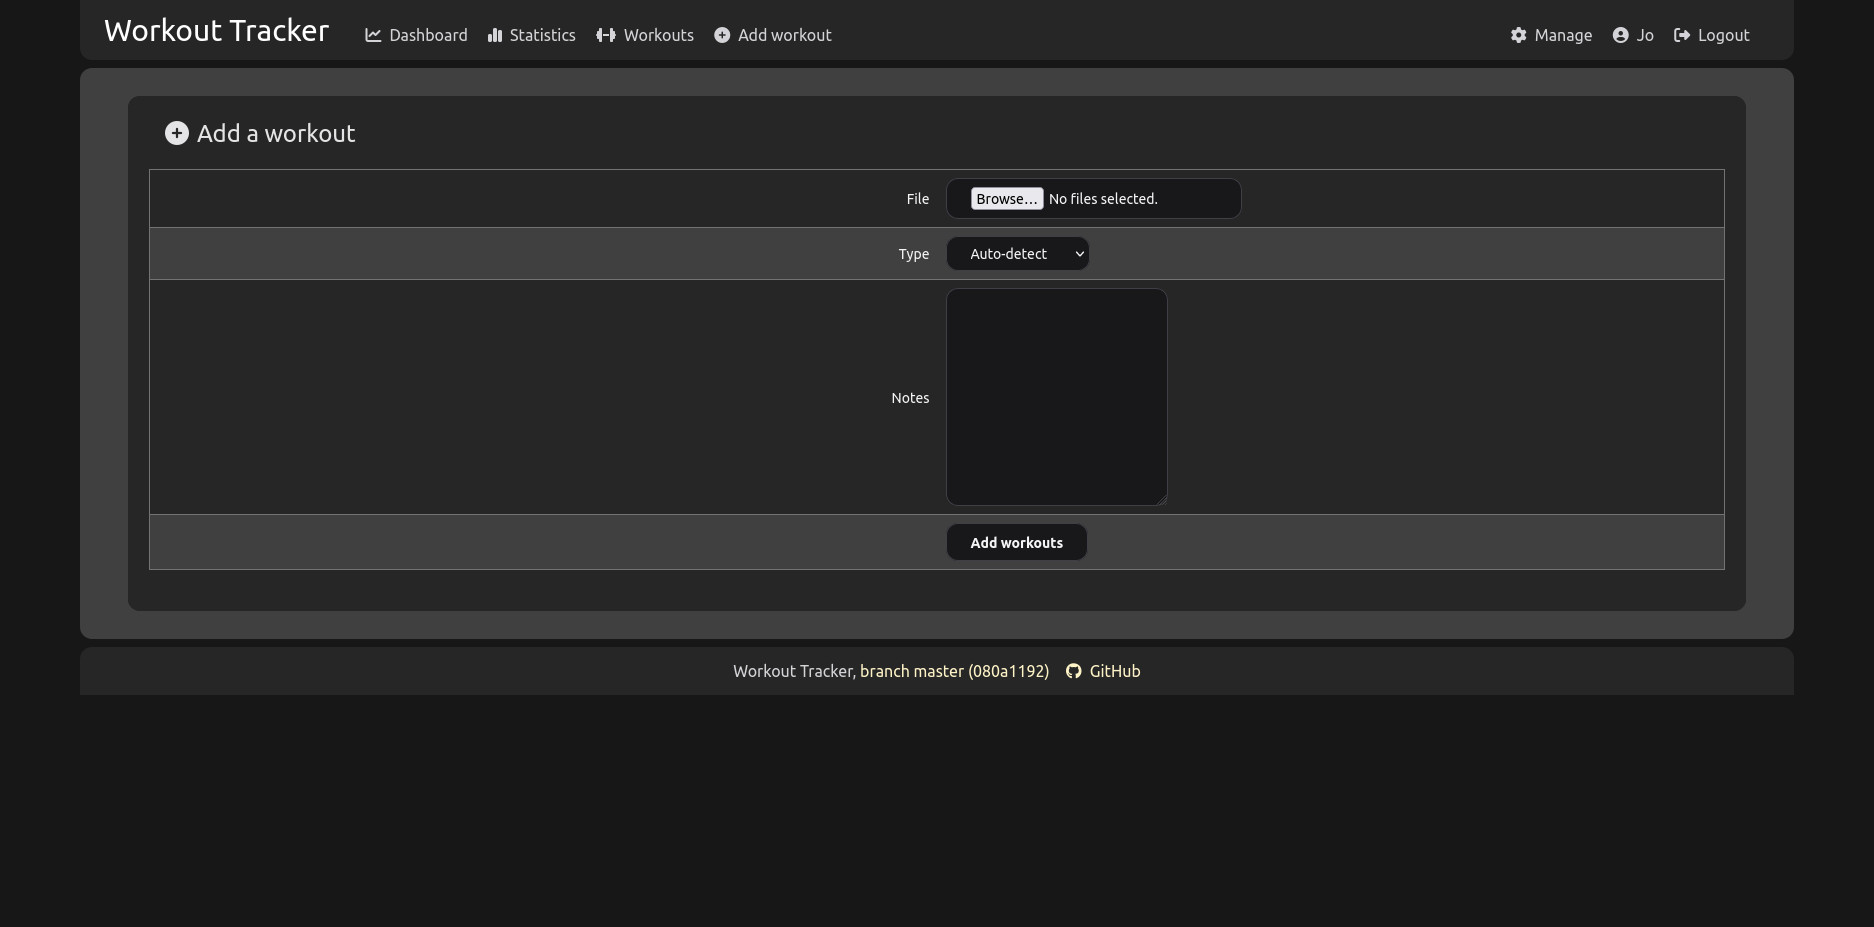
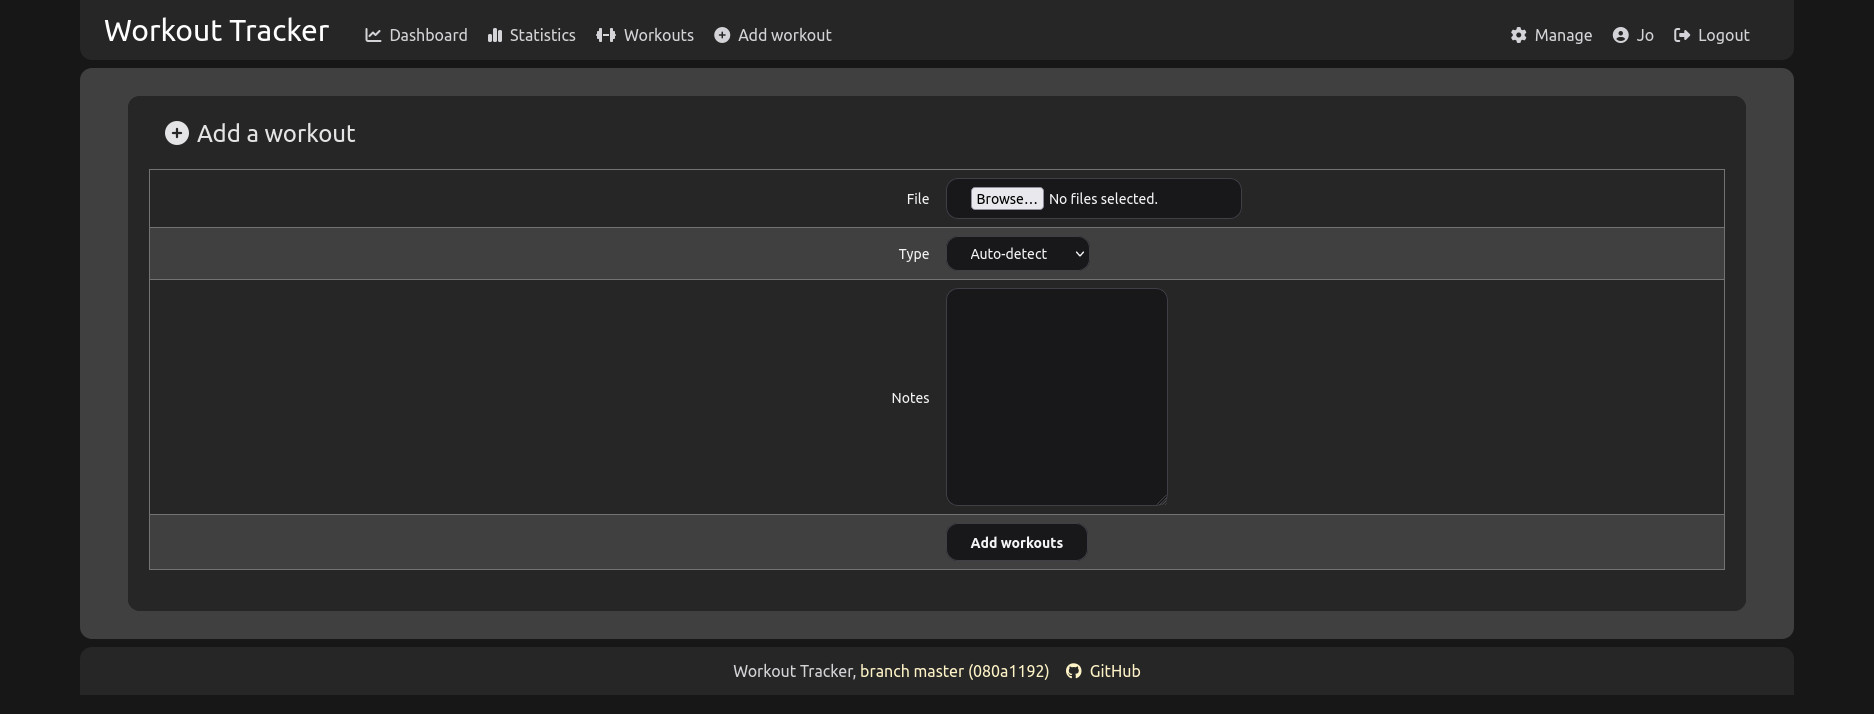
Crop the upload screenshot, add note about exporting env vars

diff --git a/README.md b/README.md
@@ -127,6 +127,12 @@ Generate a secure key and write it to `workout-tracker.yaml`:
 echo "jwt_encryption_key: $(pwgen -c 32)" > workout-tracker.yaml
 ```
 
+or export it as an environment variable:
+
+```bash
+export WT_JWT_ENCRYPTION_KEY="$(pwgen -c 32)"
+```
+
 See `workout-tracker.example.yaml` for more options and details.
 
 After starting the server, you can access it at <http://localhost:8080> (the default port). A login form is shown.
